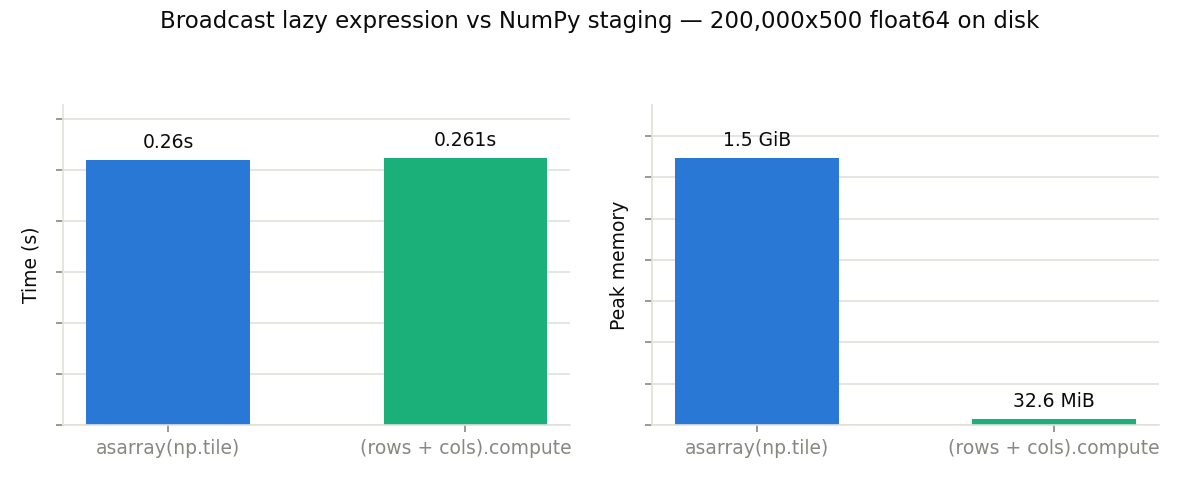
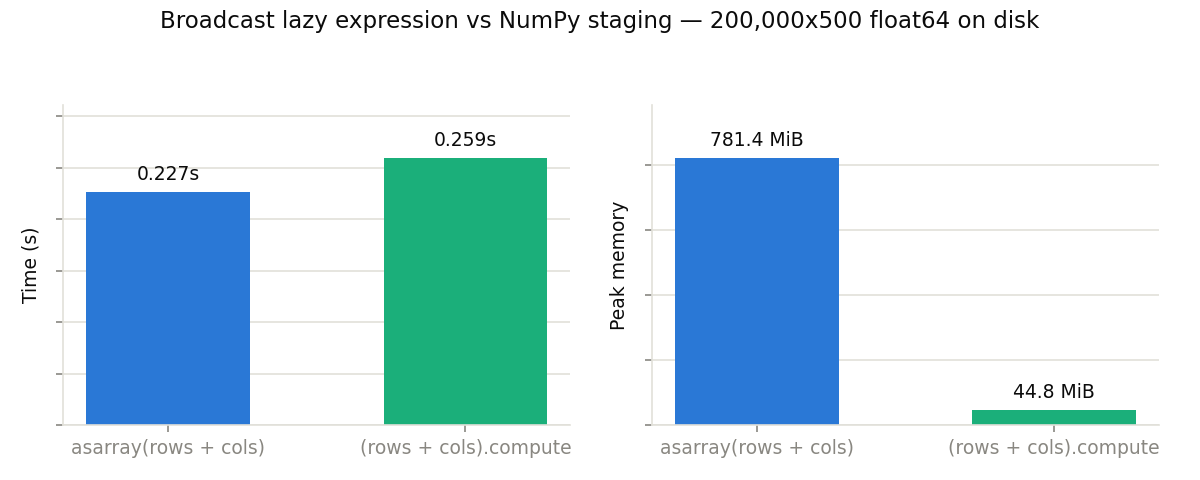
More symmetry in numpy vs blosc2 in optim tips

diff --git a/bench/optim_tips/tip_12_broadcast_build.py b/bench/optim_tips/tip_12_broadcast_build.py
@@ -8,8 +8,8 @@
 # Tip 12: when a large array is a combination of smaller ones, broadcast the
 # small blosc2 operands into a lazy expression and .compute() it straight to
 # disk. Blosc2 broadcasts the operands chunk by chunk, so the full uncompressed
-# result never exists in memory -- unlike np.tile()/NumPy broadcasting, which
-# materializes it before asarray() ever sees it.
+# result never exists in memory -- unlike NumPy broadcasting, which materializes
+# it before asarray() ever sees it.
 
 from pathlib import Path
 
@@ -23,13 +23,13 @@ URLPATH = str(Path(__file__).parent / "tip_12.b2nd")
 
 
 def naive():
-    base = np.arange(COLS, dtype=np.float64)
-    data = np.tile(base, (N, 1)) + np.arange(N, dtype=np.float64)[:, None] * 0.001
-    return blosc2.asarray(data, chunks=(CHUNK, COLS), urlpath=URLPATH, mode="w")
+    cols = np.arange(COLS, dtype=np.float64)
+    rows = np.arange(0, N * 0.001, 0.001, dtype=np.float64).reshape(N, 1)
+    return blosc2.asarray(rows + cols, chunks=(CHUNK, COLS), urlpath=URLPATH, mode="w")
 
 
 def tip():
-    cols = blosc2.arange(COLS, dtype=np.float64, shape=(1, COLS))
+    cols = blosc2.arange(COLS, dtype=np.float64)
     rows = blosc2.arange(0, N * 0.001, 0.001, dtype=np.float64, shape=(N, 1))
     return (rows + cols).compute(chunks=(CHUNK, COLS), urlpath=URLPATH, mode="w")
 
@@ -41,14 +41,14 @@ if __name__ == "__main__":
     naive_t, naive_m = measure(__file__, "naive")
     tip_t, tip_m = measure(__file__, "tip")
 
-    print(f"naive  asarray(np.tile(...) + ...) : {naive_t:.3f}s  peak {fmt_bytes(naive_m)}")
-    print(f"tip    (rows + cols).compute()     : {tip_t:.3f}s  peak {fmt_bytes(tip_m)}")
+    print(f"naive  asarray(rows + cols)    : {naive_t:.3f}s  peak {fmt_bytes(naive_m)}")
+    print(f"tip    (rows + cols).compute() : {tip_t:.3f}s  peak {fmt_bytes(tip_m)}")
     print(f"speedup: {naive_t / tip_t:.1f}x   memory: {naive_m / tip_m:.1f}x less")
 
     save_plot(
         "tip_12_broadcast_build.png",
         f"Broadcast lazy expression vs NumPy staging — {N:,}x{COLS} float64 on disk",
-        "asarray(np.tile)",
+        "asarray(rows + cols)",
         "(rows + cols).compute",
         naive_t,
         tip_t,

diff --git a/bench/optim_tips/tip_08_where_pushdown.py b/bench/optim_tips/tip_08_where_pushdown.py
@@ -23,14 +23,14 @@ make_table(N, URLPATH)
 
 def naive():
     t = blosc2.CTable.open(URLPATH)
-    temp = t["temperature"][:]  # whole column decompressed
-    reg = t["region"][:]  # and the predicate column too
+    temp = t.temperature[:]  # whole column decompressed
+    reg = t.region[:]  # and the predicate column too
     return temp[reg == 3].sum()
 
 
 def tip():
     t = blosc2.CTable.open(URLPATH)
-    return t["temperature"].sum(where=t.region == 3)  # pushed-down filter
+    return t.temperature.sum(where=t.region == 3)  # pushed-down filter
 
 
 if __name__ == "__main__":

diff --git a/bench/optim_tips/tip_06_mmap_read.py b/bench/optim_tips/tip_06_mmap_read.py
@@ -30,7 +30,7 @@ def _build():
     # Built the way tip_12_broadcast_build.py recommends: two blosc2.arange()
     # operands broadcast into a lazy expression, evaluated chunk by chunk
     # straight to disk, so the 800 MiB NumPy staging array never exists.
-    cols = blosc2.arange(COLS, dtype=np.float64, shape=(1, COLS))
+    cols = blosc2.arange(COLS, dtype=np.float64)
     rows = blosc2.arange(0, N * 0.001, 0.001, dtype=np.float64, shape=(N, 1))
     (rows + cols).compute(chunks=(CHUNK, COLS), urlpath=URLPATH, mode="w")
 

diff --git a/bench/optim_tips/tip_09_b2z_read_in_place.py b/bench/optim_tips/tip_09_b2z_read_in_place.py
@@ -40,7 +40,7 @@ def naive():
     shutil.rmtree(dest, ignore_errors=True)
     with zipfile.ZipFile(B2Z) as z:
         z.extractall(dest)
-    t = blosc2.open(str(dest))
+    t = blosc2.open(str(dest), mmap_mode="r")  # mmap on both sides: only the extraction differs
     return t["temperature"].sum()
 
 

diff --git a/doc/guides/optimization_tips.md b/doc/guides/optimization_tips.md
@@ -22,25 +22,25 @@ At 200M float64 elements, the constructor was **~1.5x faster** and used **~16x l
 
 *Benchmark for this tip: [`tip_01_constructors.py`](https://github.com/Blosc/python-blosc2/blob/main/bench/optim_tips/tip_01_constructors.py)*
 
-## Broadcast small operands into large arrays, straight to disk
+## Broadcast small operands into large, on-disk arrays
 
 The same idea extends past the constructors: when a large array is a *combination* of smaller ones, build it as a lazy expression over broadcast blosc2 operands and {meth}`compute() <blosc2.LazyArray.compute>` it directly to a file. Blosc2 broadcasts chunk by chunk, so the full uncompressed result never exists anywhere — only the small operands and one chunk at a time. NumPy broadcasting, by contrast, materializes the whole thing before {func}`asarray() <blosc2.asarray>` gets a chance to compress it.
 
 ```python
 # Avoid: an 800 MiB NumPy array exists before a single byte is compressed
-base = np.arange(COLS, dtype=np.float64)
-data = np.tile(base, (N, 1)) + np.arange(N, dtype=np.float64)[:, None] * 0.001
-a = blosc2.asarray(data, chunks=(CHUNK, COLS), urlpath="big.b2nd", mode="w")
+cols = np.arange(COLS, dtype=np.float64)
+rows = np.arange(0, N * 0.001, 0.001, dtype=np.float64).reshape(N, 1)
+a = blosc2.asarray(rows + cols, chunks=(CHUNK, COLS), urlpath="big.b2nd", mode="w")
 
 # Prefer: two small operands, broadcast and evaluated chunk by chunk to disk
-cols = blosc2.arange(COLS, dtype=np.float64, shape=(1, COLS))
+cols = blosc2.arange(COLS, dtype=np.float64)
 rows = blosc2.arange(0, N * 0.001, 0.001, dtype=np.float64, shape=(N, 1))
 a = (rows + cols).compute(chunks=(CHUNK, COLS), urlpath="big.b2nd", mode="w")
 ```
 
 ![Broadcast lazy expression vs NumPy staging](optim_tips/tip_12_broadcast_build.png)
 
-Both produce bit-identical files. For a 200,000x500 float64 array (~800 MiB uncompressed), the broadcast expression used **~47x less peak memory** — the peak is a handful of chunks, not the whole array — at the same speed. Memory is the point here: the naive path is O(N) and stops working when the array outgrows RAM, while the broadcast path doesn't care how big the result is.
+Both produce bit-identical files. For a 200,000x500 float64 array (~800 MiB uncompressed), the broadcast expression used **~26x less peak memory** — the peak is a handful of chunks, not the whole array — at essentially the same speed. Memory is the point here: the naive path is O(N) and stops working when the array outgrows RAM, while the broadcast path doesn't care how big the result is.
 
 This works for any expression over operands blosc2 can broadcast, not just two `arange()`s: an existing on-disk {class}`~blosc2.NDArray` times a per-column scale vector, a 2D field plus a 1D offset, and so on. The shape rules are NumPy's; the {doc}`lazy expressions tutorial <../getting_started/tutorials/02.lazyarray-expressions>` has a worked example.
 
@@ -76,7 +76,7 @@ a = lazy.compute(cparams={"clevel": 0})
 
 ![DSL random kernel vs asarray(rng.integers())](optim_tips/tip_11_dsl_random.png)
 
-At 200M int32 elements, the DSL kernel was **~3.7x faster** and used **~2x less peak memory** than generating with NumPy and compressing via {func}`asarray() <blosc2.asarray>` — the peak is just the result itself, since the full NumPy staging array never exists.
+At 200M int32 elements, the DSL kernel was **~3.6x faster** and used **~1.9x less peak memory** than generating with NumPy and compressing via {func}`asarray() <blosc2.asarray>` — the peak is just the result itself, since the full NumPy staging array never exists.
 
 The output passes light uniformity checks against NumPy's PCG64 (the benchmark script prints them) — good enough for synthetic data, benchmarks and test fixtures, but this hand-rolled hash is *not* a substitute for a real generator. For statistically rigorous work such as Monte Carlo, use {doc}`blosc2.random <../reference/random>`, which gives you NumPy-quality streams (one independent `SeedSequence` per chunk) and keeps the chunk-parallel generation. The benchmark source explains the hash design and the DSL integer-arithmetic rules it relies on; see also the [DSL syntax reference](../reference/dsl_syntax.md).
 
@@ -149,7 +149,7 @@ big.slice((slice(bl, 2 * bl), slice(None)))
 
 ![Aligned vs unaligned reads, chunk and block level](optim_tips/tip_02_chunk_aligned_slicing.png)
 
-On a 16000×2000 float64 array, 400 chunk-sized reads aligned with the chunk grid were **~2.3× faster** than the same reads shifted half a chunk off-grid, and a chunk-aligned `slice()` was **~11× faster** again (no decompression), i.e. ~24× faster than the unaligned read. At the block level (with larger 1.6 MB blocks), 400 block-sized reads aligned with the block grid were **~1.6× faster**. However, `slice()` at block granularity was no faster at all — `slice()` has to produce a valid compressed array with its own chunk layout, so it can only skip decompression when both boundaries land on *chunk* boundaries; at block granularity it still decompresses and recompresses.
+On a 16000×2000 float64 array, 400 chunk-sized reads aligned with the chunk grid were **~2.3× faster** than the same reads shifted half a chunk off-grid, and a chunk-aligned `slice()` was **~11× faster** again (no decompression), i.e. ~25× faster than the unaligned read. At the block level (with larger 1.6 MB blocks), 400 block-sized reads aligned with the block grid were **~2× faster**. However, `slice()` at block granularity was no faster at all — `slice()` has to produce a valid compressed array with its own chunk layout, so it can only skip decompression when both boundaries land on *chunk* boundaries; at block granularity it still decompresses and recompresses.
 
 Practically: reach for `slice()` when both boundaries land on chunk boundaries and you want a compressed result. Off that path it is strictly more work than `arr[...]` — and if you wanted NumPy at the end, you have paid to compress something you are about to throw away.
 
@@ -214,8 +214,8 @@ list(arr.iter_sorted(start=9, stop=None, step=-1))  # bottom-10 descending
 
 ![NDArray.iter_sorted(start=-10) top-10](optim_tips/tip_03b_ndarray_iter_sorted.png)
 
-On a 20M-element float64 array, ``iter_sorted(start=-10)`` was **~132× faster**
-and used **~180× less peak memory** than ``argsort()[-10:]`` — the latter
+On a 20M-element float64 array, ``iter_sorted(start=-10)`` was **~149× faster**
+and used **~270× less peak memory** than ``argsort()[-10:]`` — the latter
 still materialises the full 20M-element positions array even when backed by a
 FULL index.
 
@@ -266,17 +266,17 @@ The previous tip extends to filtered aggregates. The NumPy-style idiom — mater
 
 ```python
 # Avoid: decompresses both full columns just to mask one of them
-temp = t["temperature"][:]
-reg = t["region"][:]
+temp = t.temperature[:]
+reg = t.region[:]
 total = temp[reg == 3].sum()
 
 # Prefer: the filter travels with the chunk-wise reduction
-total = t["temperature"].sum(where=t.region == 3)
+total = t.temperature.sum(where=t.region == 3)
 ```
 
 ![col.sum(where=...) vs NumPy-style masking](optim_tips/tip_08_where_pushdown.png)
 
-On a 20M-row table, the pushed-down form was **~2.2x faster** and used **~7x less peak memory**. Predicates can combine several columns too: `t["amount"].sum(where=(t.price < 300) & (t.qty > 0))`.
+On a 20M-row table, the pushed-down form was **~2.2x faster** and used **~7x less peak memory**. Predicates can combine several columns too: `t.amount.sum(where=(t.price < 300) & (t.qty > 0))`.
 
 *Benchmark for this tip: [`tip_08_where_pushdown.py`](https://github.com/Blosc/python-blosc2/blob/main/bench/optim_tips/tip_08_where_pushdown.py)*
 
@@ -344,7 +344,7 @@ t = blosc2.open("data.b2z", mmap_mode="r")
 
 ![Reading a .b2z in place vs extracting it first](optim_tips/tip_09_b2z_read_in_place.png)
 
-On a 10M-row table, opening in place and summing a column was **~2.8x faster** than extract-then-open (identical peak memory), and it leaves no unpacked copy behind. The multi-reader advantages are the same as in the [memory-map tip above](#memory-map-read-only-opens), only with a single mapping serving the whole dataset.
+On a 10M-row table, opening in place and summing a column was **~3.4x faster** than extract-then-open — both sides `mmap_mode="r"`, so the only difference is the unpacking — at identical peak memory, and it leaves no unpacked copy behind. (This is one-shot filesystem work, measured with a single call, so the ratio varies with the filesystem and cache state.) The multi-reader advantages are the same as in the [memory-map tip above](#memory-map-read-only-opens), only with a single mapping serving the whole dataset.
 
 One asymmetry to keep in mind: `.b2z` is optimized for reading, while a *writable* `.b2z` is staged in a temporary directory and rezipped on close — for write-heavy workloads, build the table as `.b2d` and pack it with {meth}`to_b2z() <blosc2.CTable.to_b2z>` when it's ready to publish.
 
